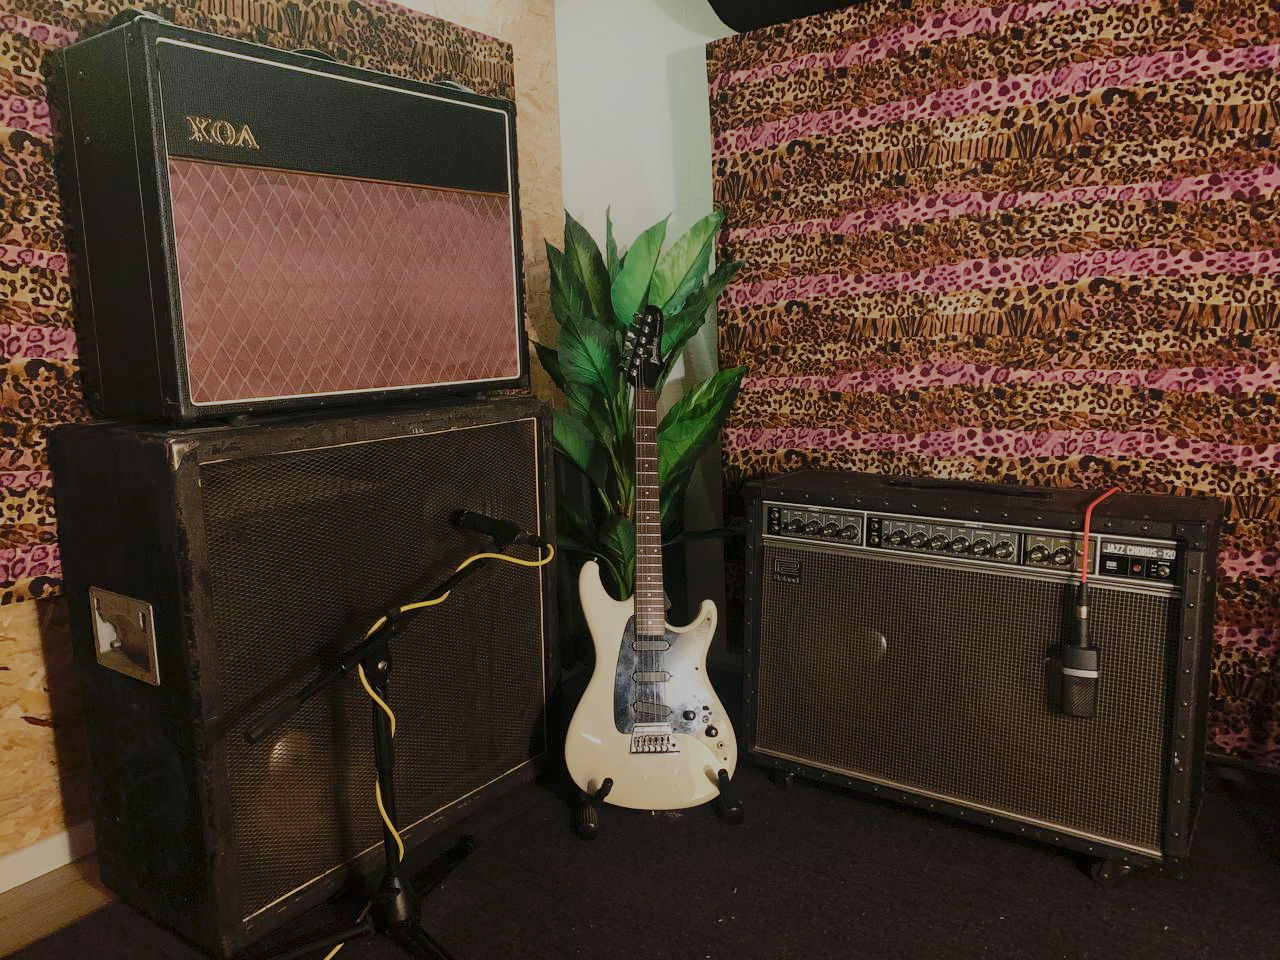
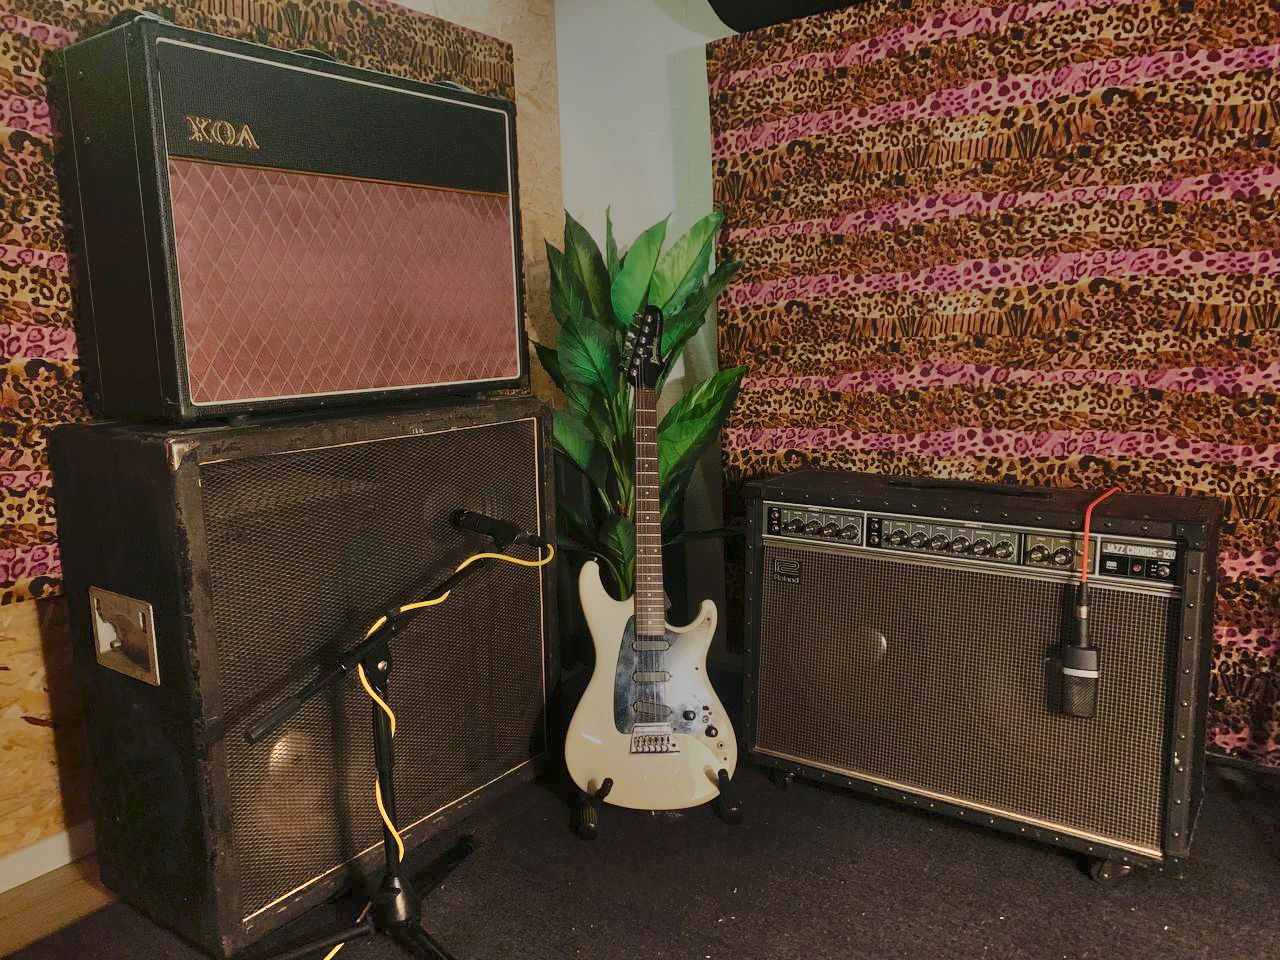
Exchange photos

Changed region(s): [[0.0938, 0.4375, 1.0, 1.0], [0.3125, 0.0, 0.5312, 0.1562], [0.6562, 0.5625, 0.7188, 0.5938]]

diff --git a/index.html b/index.html
@@ -169,10 +169,10 @@
                         <p>Neural DSP Quad Cortex<p>
                         <p>Vox AC30</p>
                     </div>
-                    <img class="gear-image" src="assets/images/photos/session.jpg" alt="Microphone">
+                    <img class="gear-image" src="assets/images/amps_mic.jpg" alt="Amps">
                 </div>
                 <div id="cell3" class="grid-cell">
-                    <img class="gear-image" src="assets/images/klavier.jpg" alt="Microphone">
+                    <img class="gear-image" src="assets/images/instrumente.jpg" alt="Microphone">
                     <div class="gear-list inst-list">
                         <h1>Instrumente:</h1>
                         <p>Schimmel Piano</p>
@@ -200,7 +200,7 @@
                     <img class="gear-image" src="assets/images/logic-screenshot.webp" alt="Microphone">
                 </div>
                 <div id="cell5" class="grid-cell">
-                    <img class="gear-image" src="assets/images/control_setup.jpg" alt="Microphone">
+                    <img class="gear-image" src="assets/images/interface.jpg" alt="Microphone">
                     <div class="gear-list interface-list">
                         <h1>Interfaces:</h1>
                         <p>Behringer UMC 1820</p>
@@ -216,7 +216,7 @@
                         <p>32GB Ram</p>
                         <p>MacOS 13.10</p>
                     </div>
-                    <img class="gear-image" src="assets/images/photos/referenzen.jpg" alt="Microphone">
+                    <img class="gear-image" src="assets/images/control_room.jpg " alt="Microphone">
                 </div>
             </div>
         </section>

diff --git a/style.css b/style.css
@@ -613,8 +613,8 @@ header .overlay {
         "cell4 cell4 cell4 cell4 cell4 cell4 cell4 cell4 cell4"
         "cell4 cell4 cell4 cell4 cell4 cell4 cell4 cell4 cell4"
         "cell4 cell4 cell4 cell4 cell4 cell4 cell4 cell4 cell4"
-        "cell5 cell5 cell5 cell5 cell5 cell6 cell6 cell6 cell6"
-        "cell5 cell5 cell5 cell5 cell5 cell6 cell6 cell6 cell6";
+        "cell5 cell5 cell5 cell5 cell6 cell6 cell6 cell6 cell6"
+        "cell5 cell5 cell5 cell5 cell6 cell6 cell6 cell6 cell6";
     grid-template-columns: repeat(9, 8.5vw);
     grid-template-rows: repeat(10, 130px);
     background-color: var(--highlight-color);
